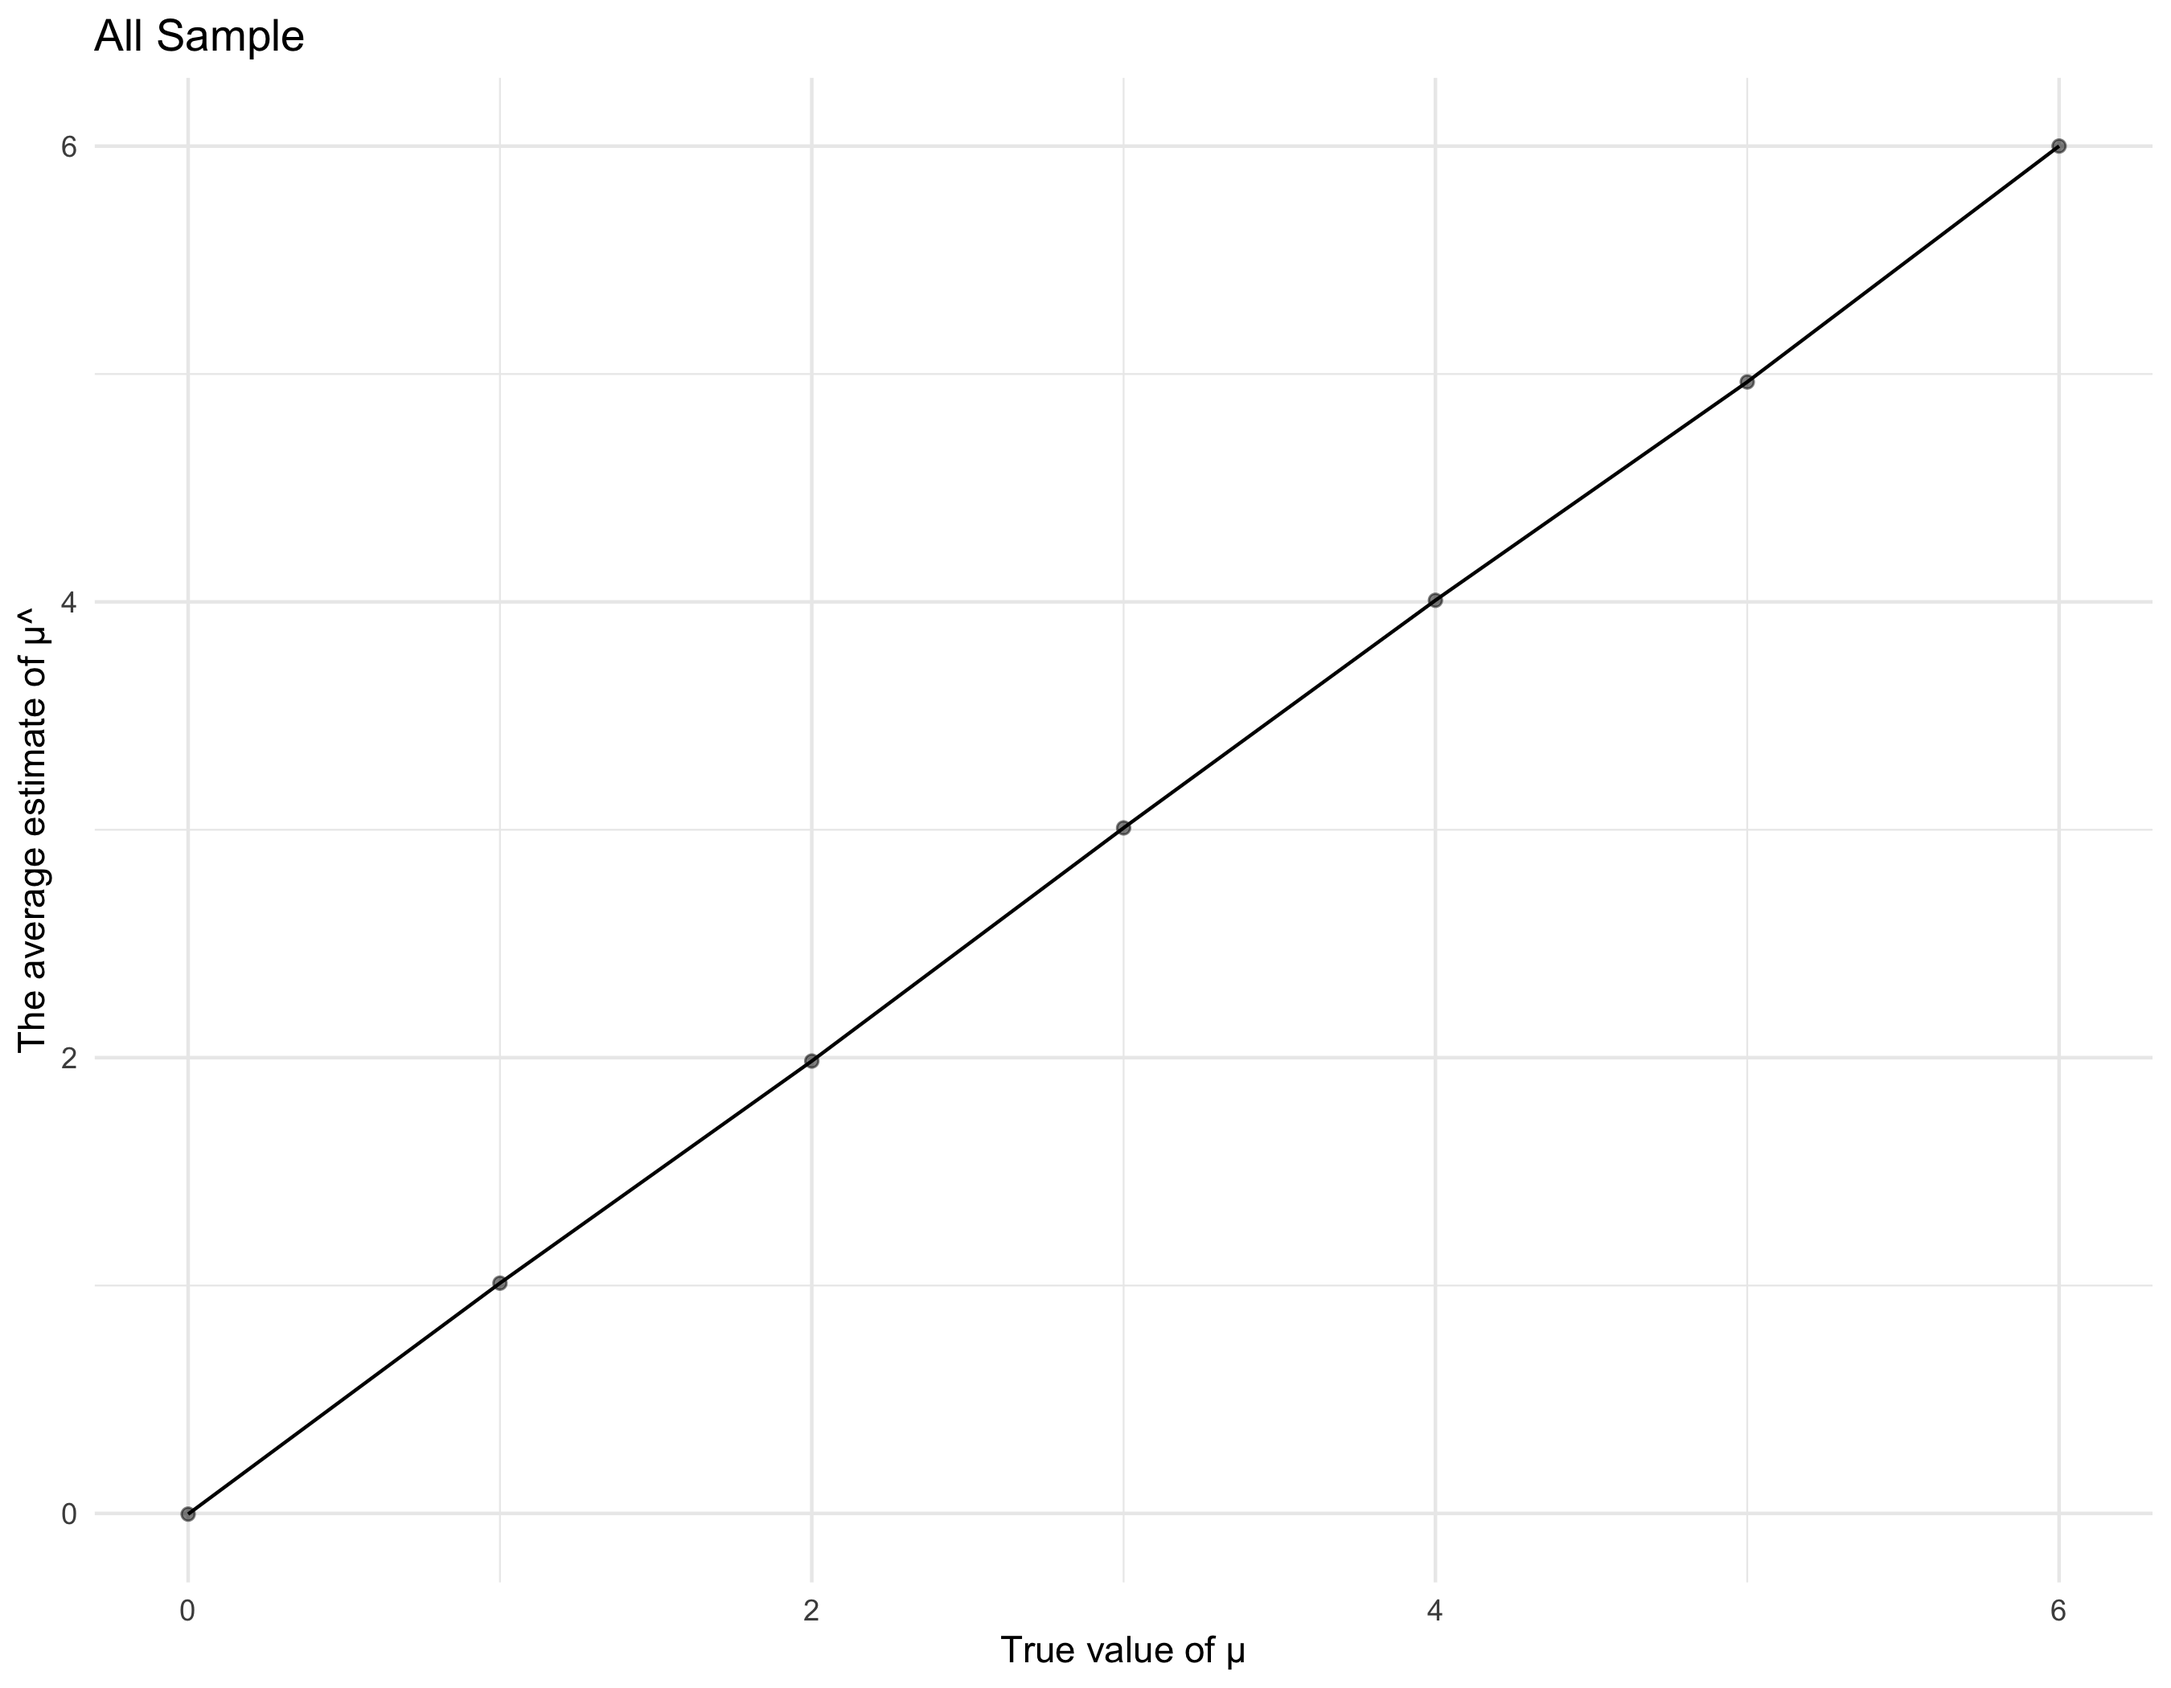
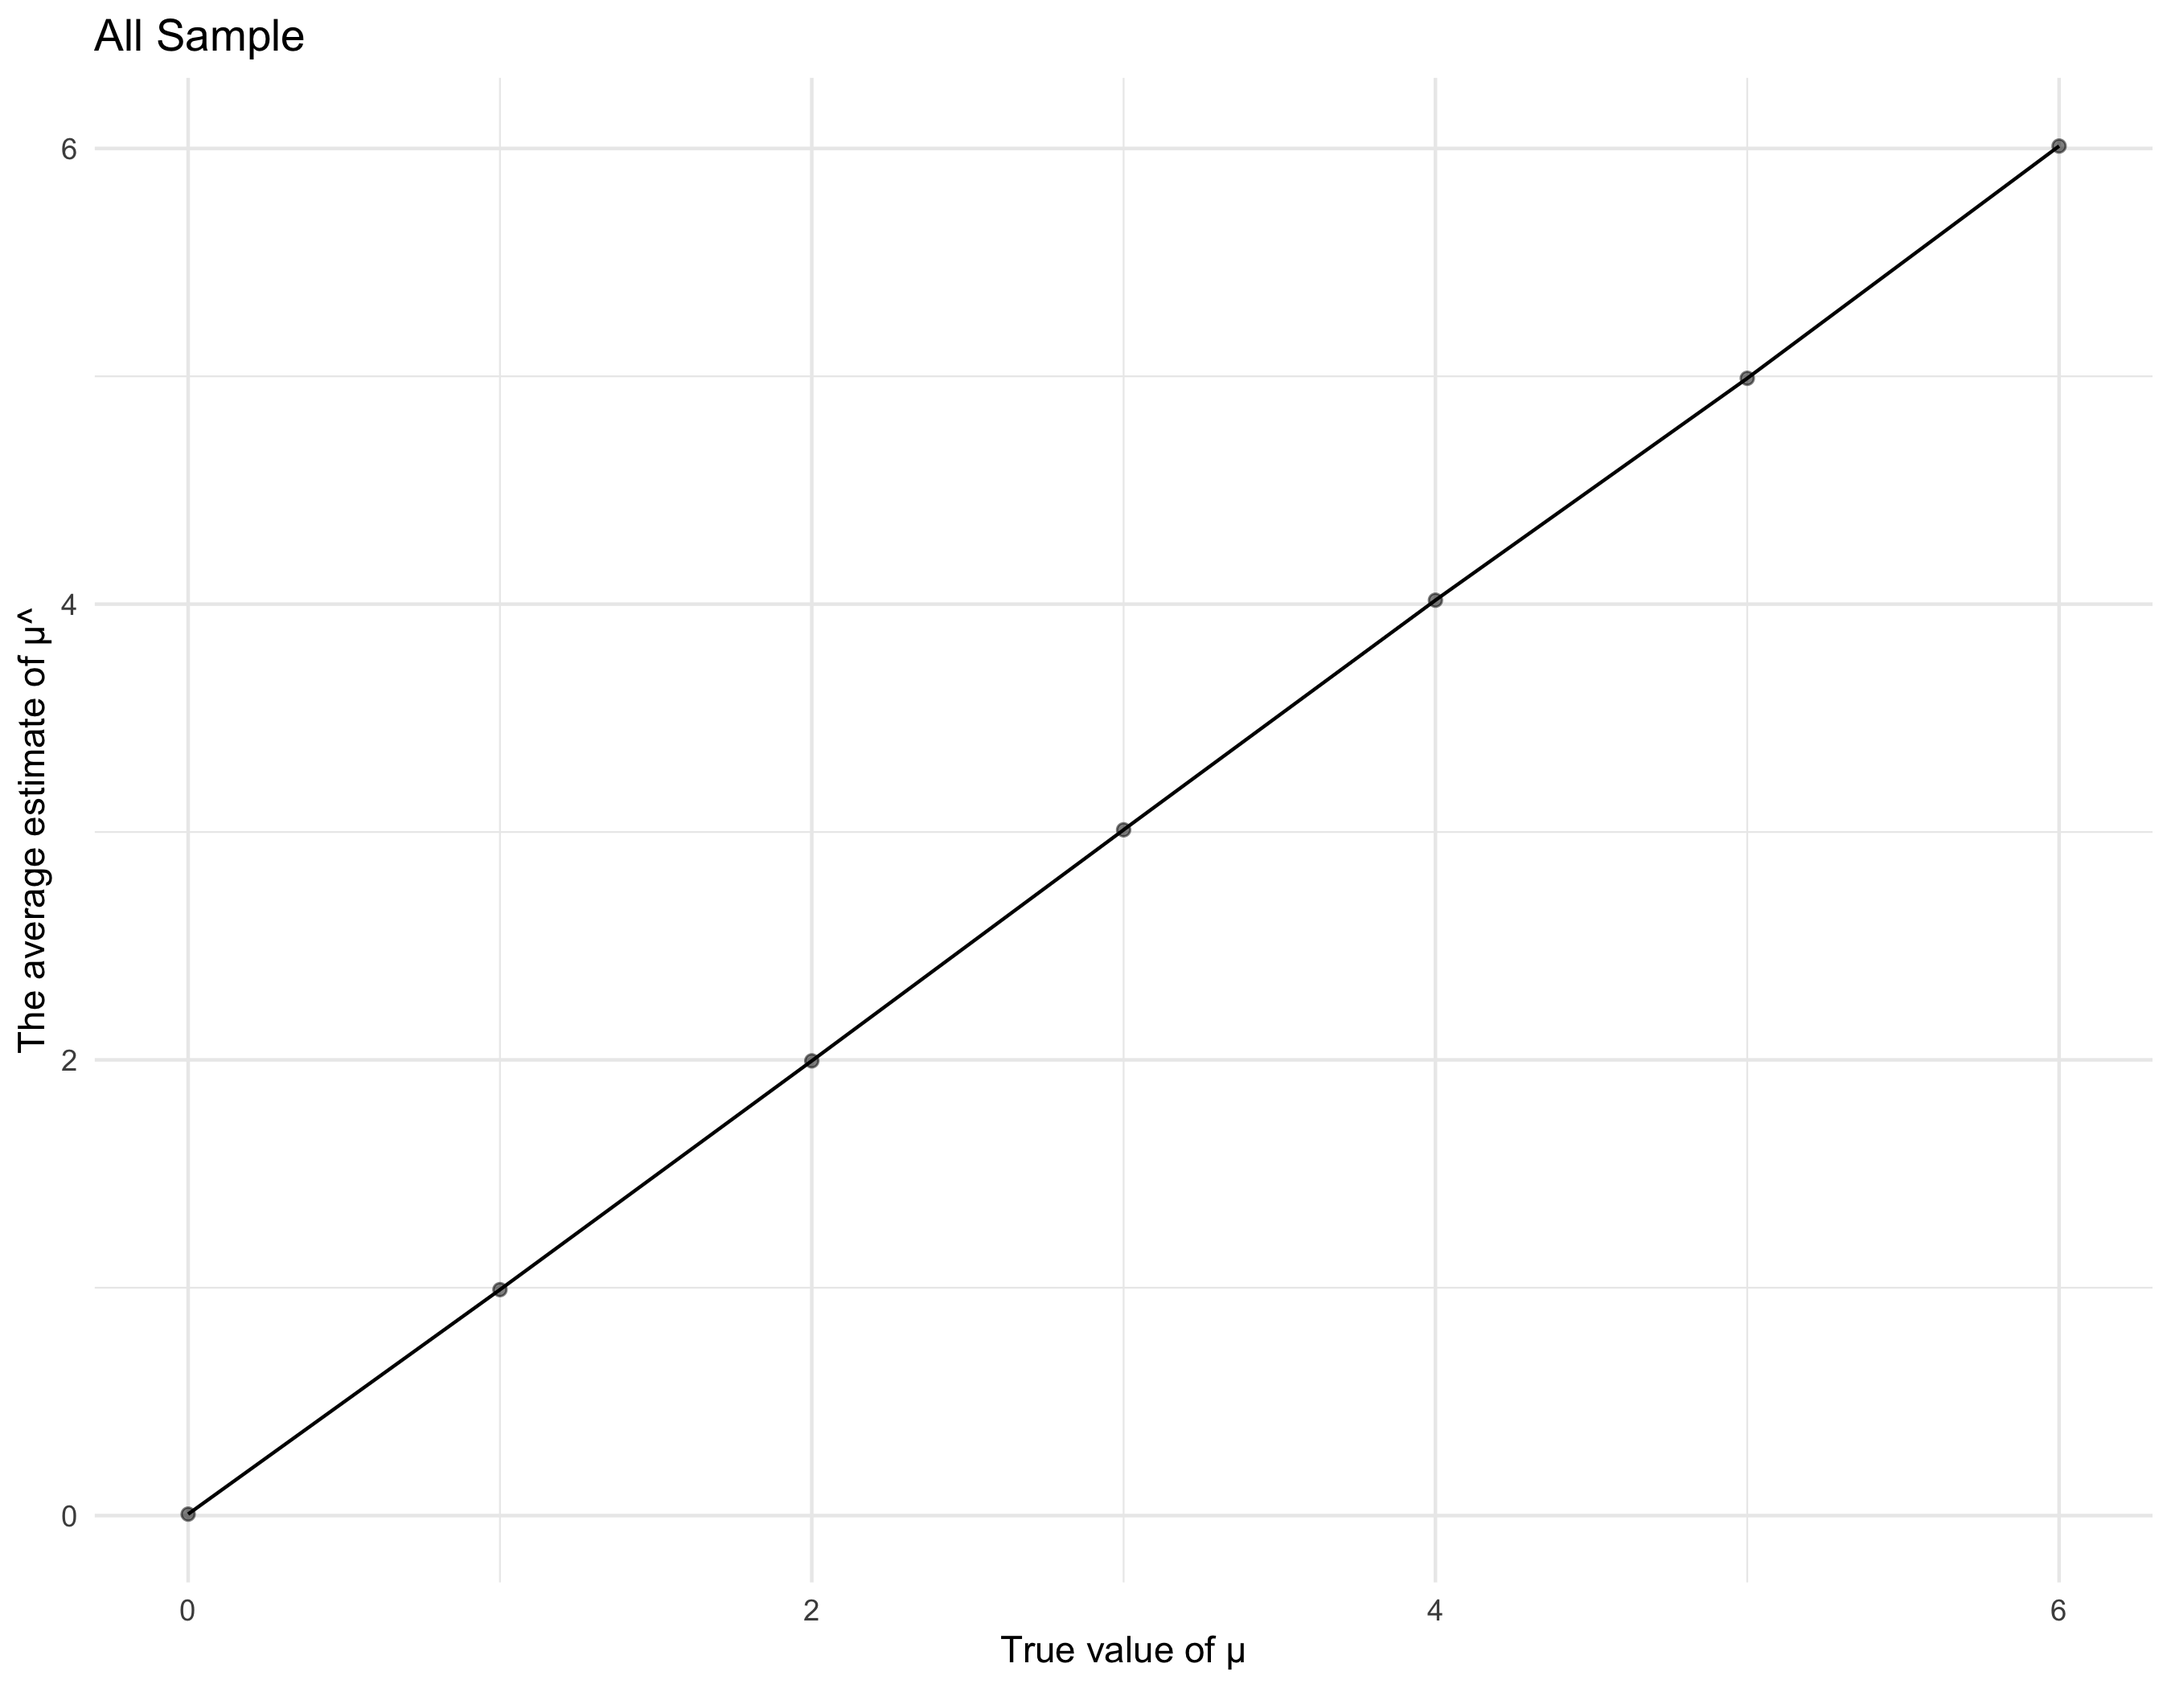
changed to 5000 sims

diff --git a/p8105_hw5_kb3246.md b/p8105_hw5_kb3246.md
@@ -196,8 +196,8 @@ Now we want to generate 5000 datasets from the model.
 ``` r
 # Now we will repeat this process 5000 times 
 
-simulations = vector("list", 1000)
-for(i in 1:1000) {
+simulations = vector("list", 5000)
+for(i in 1:5000) {
   simulations[[i]]= initial_sim()
 }
 
@@ -211,8 +211,8 @@ Now we want to repeat the above for μ={1,2,3,4,5,6}
 
 ``` r
 sim_mu = function(set){
-  mu_output = vector("list", 1000)
-  for (i in 1:1000) {
+  mu_output = vector("list", 5000)
+  for (i in 1:5000) {
     mu_output[[i]] = initial_sim(mu = set)
   }
   power_output = 
@@ -241,7 +241,7 @@ simulation_any_mu =
 power_plot = 
   simulation_any_mu%>%
   group_by(mu_vals)%>%
-  summarise(power= sum(reject_status)/1000)%>%
+  summarise(power= sum(reject_status)/5000)%>%
   ggplot(aes(x = mu_vals, y= power))+ 
   geom_point(aes(color = mu_vals), size = 2) +
   geom_line(alpha = 0.3) +
